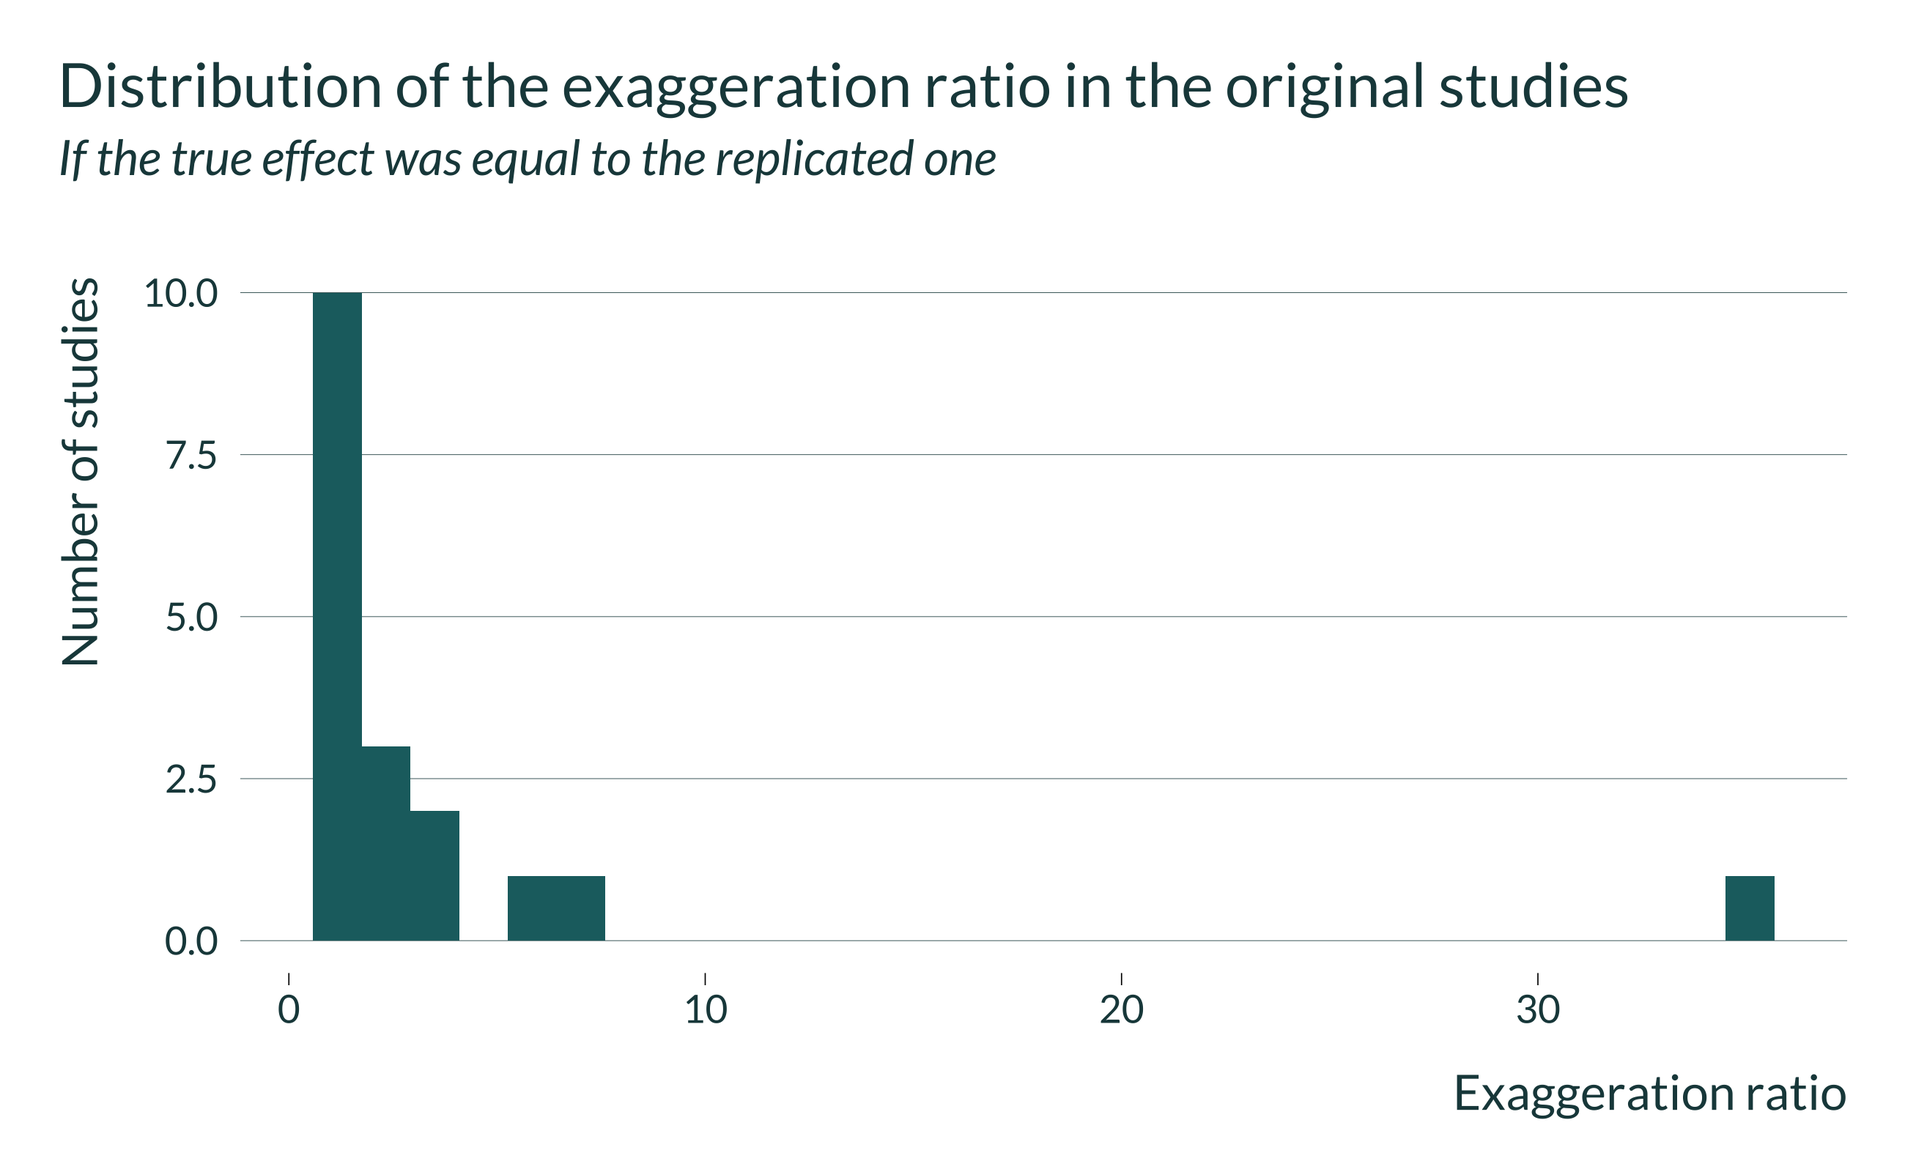
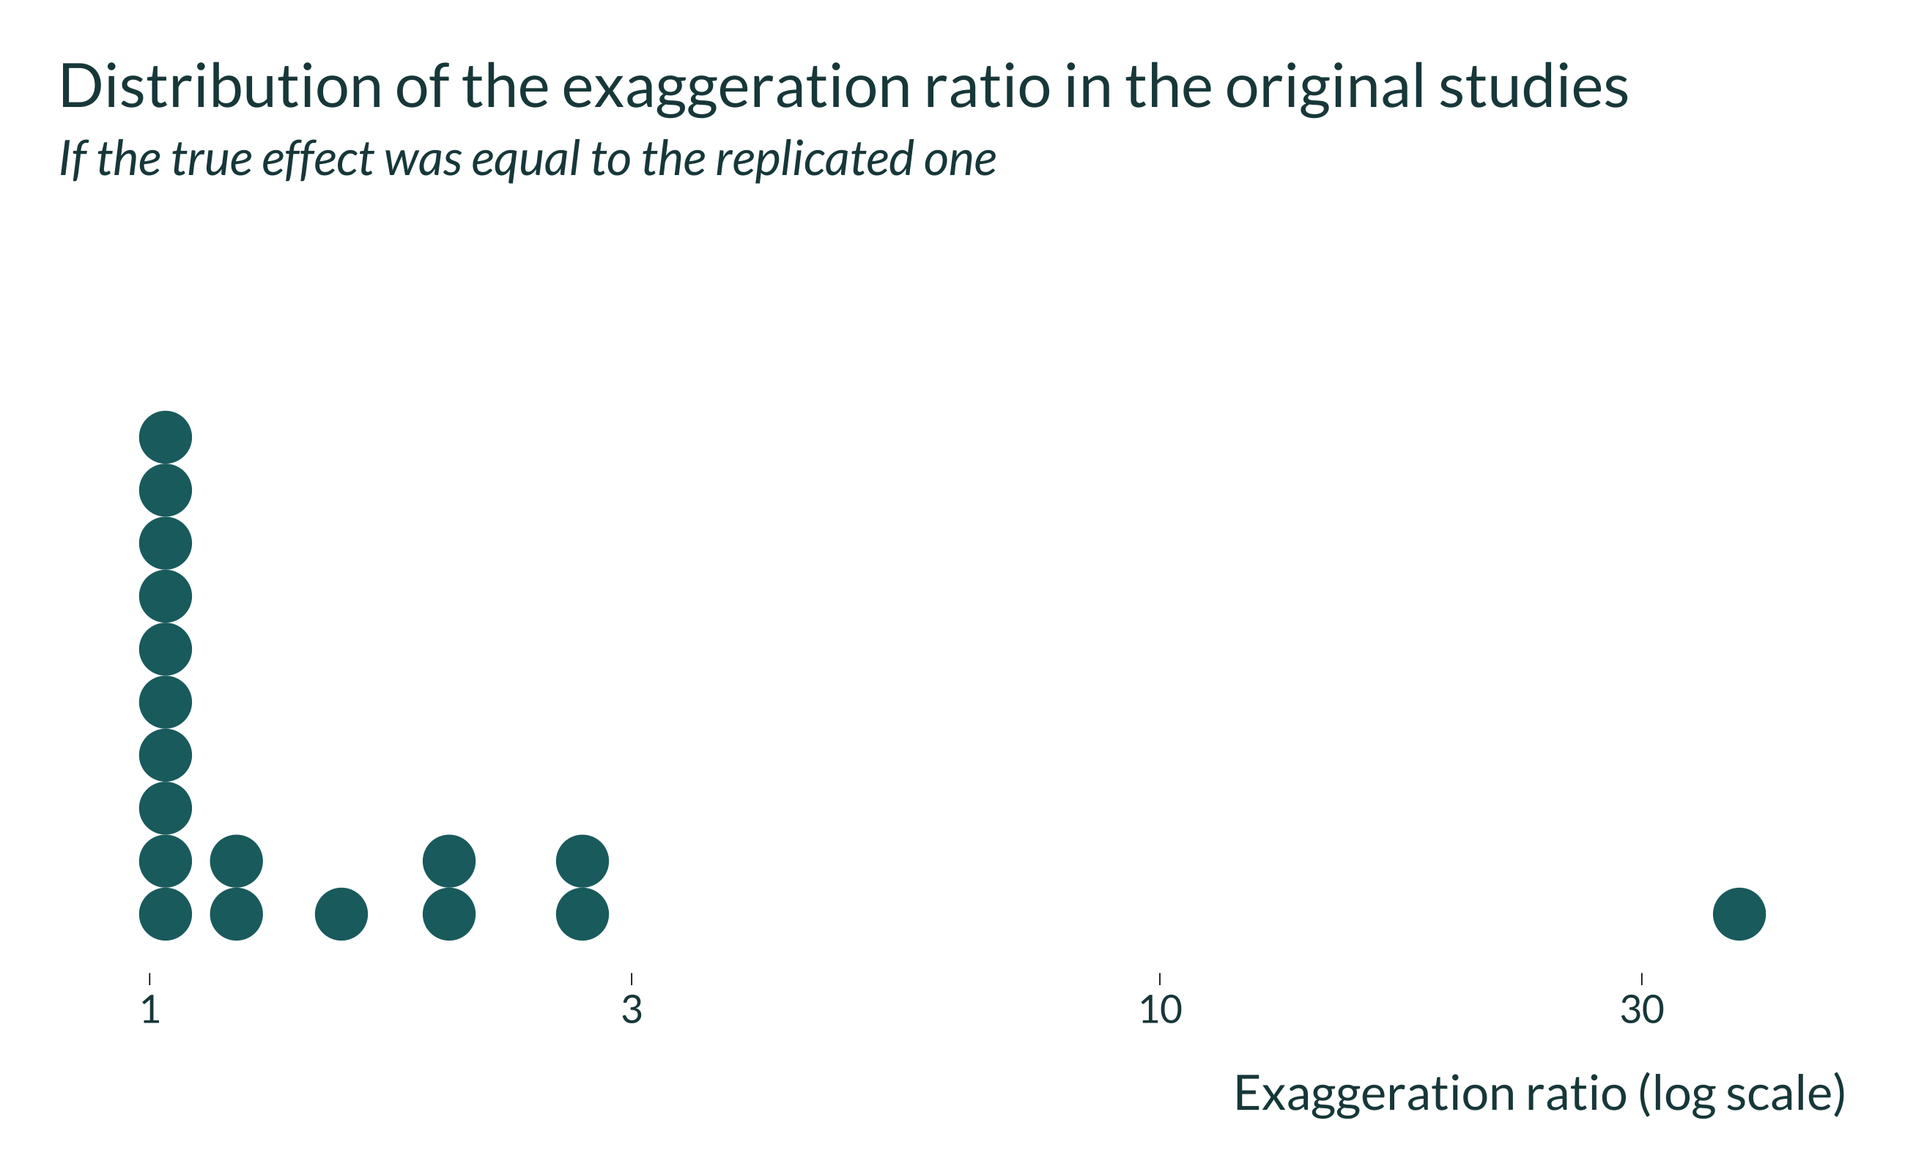
Correct values for camerer et al

diff --git a/docs/experiments.html b/docs/experiments.html
@@ -87,34 +87,34 @@ code span.wa { color: #5e5e5e; font-style: italic; } /* Warning */
 
 
   <!--radix_placeholder_meta_tags-->
-  <title>Unbiased but Inflated Causal Effects: Analyzing Experimental Studies for Intuition</title>
+  <title>Unbiased but Inflated Causal Effects: Intuition, experimental studies and replication crisis</title>
   
-  <meta property="description" itemprop="description" content="In this document, we analyze replication of experimental studies to illustrate the concept of type M error."/>
+  <meta property="description" itemprop="description" content="In this document, we analyze replications of experimental studies to illustrate the consequences of low statistical power in economics."/>
   
   
   <!--  https://schema.org/Article -->
-  <meta property="article:published" itemprop="datePublished" content="2022-01-12"/>
-  <meta property="article:created" itemprop="dateCreated" content="2022-01-12"/>
+  <meta property="article:published" itemprop="datePublished" content="2022-01-24"/>
+  <meta property="article:created" itemprop="dateCreated" content="2022-01-24"/>
   <meta name="article:author" content="Vincent Bagilet"/>
   <meta name="article:author" content="Léo Zabrocki"/>
   
   <!--  https://developers.facebook.com/docs/sharing/webmasters#markup -->
-  <meta property="og:title" content="Unbiased but Inflated Causal Effects: Analyzing Experimental Studies for Intuition"/>
+  <meta property="og:title" content="Unbiased but Inflated Causal Effects: Intuition, experimental studies and replication crisis"/>
   <meta property="og:type" content="article"/>
-  <meta property="og:description" content="In this document, we analyze replication of experimental studies to illustrate the concept of type M error."/>
+  <meta property="og:description" content="In this document, we analyze replications of experimental studies to illustrate the consequences of low statistical power in economics."/>
   <meta property="og:locale" content="en_US"/>
   <meta property="og:site_name" content="Unbiased but Inflated Causal Effects"/>
   
   <!--  https://dev.twitter.com/cards/types/summary -->
   <meta property="twitter:card" content="summary"/>
-  <meta property="twitter:title" content="Unbiased but Inflated Causal Effects: Analyzing Experimental Studies for Intuition"/>
-  <meta property="twitter:description" content="In this document, we analyze replication of experimental studies to illustrate the concept of type M error."/>
+  <meta property="twitter:title" content="Unbiased but Inflated Causal Effects: Intuition, experimental studies and replication crisis"/>
+  <meta property="twitter:description" content="In this document, we analyze replications of experimental studies to illustrate the consequences of low statistical power in economics."/>
   
   <!--/radix_placeholder_meta_tags-->
   <!--radix_placeholder_rmarkdown_metadata-->
   
   <script type="text/json" id="radix-rmarkdown-metadata">
-  {"type":"list","attributes":{"names":{"type":"character","attributes":{},"value":["title","description","author","date","output","editor_options"]}},"value":[{"type":"character","attributes":{},"value":["Analyzing Experimental Studies for Intuition"]},{"type":"character","attributes":{},"value":["In this document, we analyze replication of experimental studies to illustrate the concept of type M error."]},{"type":"list","attributes":{},"value":[{"type":"list","attributes":{"names":{"type":"character","attributes":{},"value":["name","url","affiliation","affiliation_url"]}},"value":[{"type":"character","attributes":{},"value":["Vincent Bagilet"]},{"type":"character","attributes":{},"value":["https://vincentbagilet.github.io/"]},{"type":"character","attributes":{},"value":["Columbia University"]},{"type":"character","attributes":{},"value":["https://www.columbia.edu/"]}]},{"type":"list","attributes":{"names":{"type":"character","attributes":{},"value":["name","url","affiliation","affiliation_url"]}},"value":[{"type":"character","attributes":{},"value":["Léo Zabrocki"]},{"type":"character","attributes":{},"value":["https://www.parisschoolofeconomics.eu/en/"]},{"type":"character","attributes":{},"value":["Paris School of Economics"]},{"type":"character","attributes":{},"value":["https://www.parisschoolofeconomics.eu/en/"]}]}]},{"type":"character","attributes":{},"value":["2022-01-12"]},{"type":"list","attributes":{"names":{"type":"character","attributes":{},"value":["distill::distill_article"]}},"value":[{"type":"list","attributes":{"names":{"type":"character","attributes":{},"value":["toc"]}},"value":[{"type":"logical","attributes":{},"value":[true]}]}]},{"type":"list","attributes":{"names":{"type":"character","attributes":{},"value":["chunk_output_type"]}},"value":[{"type":"character","attributes":{},"value":["console"]}]}]}
+  {"type":"list","attributes":{"names":{"type":"character","attributes":{},"value":["title","description","author","date","output","editor_options"]}},"value":[{"type":"character","attributes":{},"value":["Intuition, experimental studies and replication crisis"]},{"type":"character","attributes":{},"value":["In this document, we analyze replications of experimental studies to illustrate the consequences of low statistical power in economics."]},{"type":"list","attributes":{},"value":[{"type":"list","attributes":{"names":{"type":"character","attributes":{},"value":["name","url","affiliation","affiliation_url"]}},"value":[{"type":"character","attributes":{},"value":["Vincent Bagilet"]},{"type":"character","attributes":{},"value":["https://vincentbagilet.github.io/"]},{"type":"character","attributes":{},"value":["Columbia University"]},{"type":"character","attributes":{},"value":["https://www.columbia.edu/"]}]},{"type":"list","attributes":{"names":{"type":"character","attributes":{},"value":["name","url","affiliation","affiliation_url"]}},"value":[{"type":"character","attributes":{},"value":["Léo Zabrocki"]},{"type":"character","attributes":{},"value":["https://www.parisschoolofeconomics.eu/en/"]},{"type":"character","attributes":{},"value":["Paris School of Economics"]},{"type":"character","attributes":{},"value":["https://www.parisschoolofeconomics.eu/en/"]}]}]},{"type":"character","attributes":{},"value":["2022-01-24"]},{"type":"list","attributes":{"names":{"type":"character","attributes":{},"value":["distill::distill_article"]}},"value":[{"type":"list","attributes":{"names":{"type":"character","attributes":{},"value":["toc"]}},"value":[{"type":"logical","attributes":{},"value":[true]}]}]},{"type":"list","attributes":{"names":{"type":"character","attributes":{},"value":["chunk_output_type"]}},"value":[{"type":"character","attributes":{},"value":["console"]}]}]}
   </script>
   <!--/radix_placeholder_rmarkdown_metadata-->
   <!--radix_placeholder_navigation_in_header-->
@@ -2144,7 +2144,7 @@ code span.wa { color: #5e5e5e; font-style: italic; } /* Warning */
 <!--radix_placeholder_front_matter-->
 
 <script id="distill-front-matter" type="text/json">
-{"title":"Analyzing Experimental Studies for Intuition","description":"In this document, we analyze replication of experimental studies to illustrate the concept of type M error.","authors":[{"author":"Vincent Bagilet","authorURL":"https://vincentbagilet.github.io/","affiliation":"Columbia University","affiliationURL":"https://www.columbia.edu/","orcidID":""},{"author":"Léo Zabrocki","authorURL":"https://www.parisschoolofeconomics.eu/en/","affiliation":"Paris School of Economics","affiliationURL":"https://www.parisschoolofeconomics.eu/en/","orcidID":""}],"publishedDate":"2022-01-12T00:00:00.000+01:00","citationText":"Bagilet & Zabrocki, 2022"}
+{"title":"Intuition, experimental studies and replication crisis","description":"In this document, we analyze replications of experimental studies to illustrate the consequences of low statistical power in economics.","authors":[{"author":"Vincent Bagilet","authorURL":"https://vincentbagilet.github.io/","affiliation":"Columbia University","affiliationURL":"https://www.columbia.edu/","orcidID":""},{"author":"Léo Zabrocki","authorURL":"https://www.parisschoolofeconomics.eu/en/","affiliation":"Paris School of Economics","affiliationURL":"https://www.parisschoolofeconomics.eu/en/","orcidID":""}],"publishedDate":"2022-01-24T00:00:00.000+01:00","citationText":"Bagilet & Zabrocki, 2022"}
 </script>
 
 <!--/radix_placeholder_front_matter-->
@@ -2157,6 +2157,7 @@ code span.wa { color: #5e5e5e; font-style: italic; } /* Warning */
 <div class="nav-right">
 <a href="index.html">Home</a>
 <a href="experiments.html">Intuition</a>
+<a href="summary.html">Summary</a>
 <div class="nav-dropdown">
 <button class="nav-dropbtn">
 Simulations
@@ -2183,10 +2184,10 @@ Simulations
 <!--/radix_placeholder_site_before_body-->
 
 <div class="d-title">
-<h1>Analyzing Experimental Studies for Intuition</h1>
+<h1>Intuition, experimental studies and replication crisis</h1>
 <!--radix_placeholder_categories-->
 <!--/radix_placeholder_categories-->
-<p>In this document, we analyze replication of experimental studies to illustrate the concept of type M error.</p>
+<p>In this document, we analyze replications of experimental studies to illustrate the consequences of low statistical power in economics.</p>
 </div>
 
 <div class="d-byline">
@@ -2194,7 +2195,7 @@ Simulations
   
 ,   Léo Zabrocki <a href="https://www.parisschoolofeconomics.eu/en/" class="uri">https://www.parisschoolofeconomics.eu/en/</a> (Paris School of Economics)<a href="https://www.parisschoolofeconomics.eu/en/" class="uri">https://www.parisschoolofeconomics.eu/en/</a>
   
-<br/>2022-01-12
+<br/>2022-01-24
 </div>
 
 <div class="d-article">
@@ -2206,7 +2207,6 @@ Simulations
 <li><a href="#analyzing-all-studies">Analyzing all studies</a></li>
 <li><a href="#focus-on-one-particular-study">Focus on one particular study</a></li>
 </ul></li>
-<li><a href="#randomized-control-trials">Randomized Control Trials</a></li>
 </ul>
 </nav>
 </div>
@@ -2215,36 +2215,18 @@ body {
 text-align: justify}
 </style>
 <h2 id="laboratory-experiments">Laboratory experiments</h2>
-<p>First, we consider the paper <a href="https://www.science.org/doi/10.1126/science.aaf0918">Camerer et al (2016)</a>. The authors of this paper replicated laboratory experiments in economics. We analyze their results through the prism of statistical power.</p>
-<p>They report their replication results, alongside the original results, in table S1 Note that some p-values are strictly smaller than 0.001. As we do not have more information, we set them to 0.001. We also back out the standard errors from the p-values as they will be useful for our analysis.</p>
-<p>We compute the power of the initial analysis if the true effect is in fact equal to the replication’s. We store the results in <code>retro_camerer</code>.</p>
+<p>To illustrate the consequences of low power, we analyze the results from <a href="https://www.science.org/doi/10.1126/science.aaf0918">Camerer et al (2016)</a> through the prism of statistical power. The authors of this paper replicated laboratory experiments in economics.</p>
+<p>They report their replication results, alongside the original results, on the <a href="http://experimentaleconreplications.com/scripts.html">project website</a>, we only need to run their Stata script <code>create_studydetails.do</code> to recover all the infomation.</p>
+<p>We then compute the power of the initial analysis if the true effect is in fact equal to the replication’s.</p>
 <div class="layout-chunk" data-layout="l-body">
-<div class="sourceCode">
-<pre class="sourceCode r"><code class="sourceCode r"><span class='va'>rep_camerer</span> <span class='op'>&lt;-</span> <span class='fu'><a href='https://readxl.tidyverse.org/reference/read_excel.html'>read_excel</a></span><span class='op'>(</span><span class='fu'><a href='https://here.r-lib.org//reference/here.html'>here</a></span><span class='op'>(</span><span class='st'>"Misc"</span>, <span class='st'>"rep_camerer.xlsx"</span><span class='op'>)</span><span class='op'>)</span> <span class='op'>%&gt;%</span> 
-  <span class='fu'>mutate</span><span class='op'>(</span>
-    se_original <span class='op'>=</span> <span class='va'>effect_original</span><span class='op'>/</span><span class='fu'><a href='https://rdrr.io/r/stats/Normal.html'>qnorm</a></span><span class='op'>(</span><span class='fl'>1</span> <span class='op'>-</span> <span class='va'>pvalue_original</span><span class='op'>)</span>, <span class='co'>#incorrect</span>
-    se_rep <span class='op'>=</span> <span class='va'>effect_rep</span><span class='op'>/</span><span class='fu'><a href='https://rdrr.io/r/stats/Normal.html'>qnorm</a></span><span class='op'>(</span><span class='fl'>1</span> <span class='op'>-</span> <span class='va'>pvalue_rep</span><span class='op'>)</span> <span class='co'>#incorrect</span>
-  <span class='op'>)</span> 
 
-<span class='va'>retro_camerer</span> <span class='op'>&lt;-</span> <span class='va'>rep_camerer</span> <span class='op'>%&gt;%</span> 
-  <span class='fu'>mutate</span><span class='op'>(</span>
-    se_original <span class='op'>=</span> <span class='va'>effect_original</span><span class='op'>/</span><span class='fu'><a href='https://rdrr.io/r/stats/Normal.html'>qnorm</a></span><span class='op'>(</span><span class='fl'>1</span> <span class='op'>-</span> <span class='va'>pvalue_original</span><span class='op'>)</span>, <span class='co'>#incorrect</span>
-    se_rep <span class='op'>=</span> <span class='va'>effect_rep</span><span class='op'>/</span><span class='fu'><a href='https://rdrr.io/r/stats/Normal.html'>qnorm</a></span><span class='op'>(</span><span class='fl'>1</span> <span class='op'>-</span> <span class='va'>pvalue_rep</span><span class='op'>)</span> <span class='co'>#incorrect</span>
-  <span class='op'>)</span> <span class='op'>%&gt;%</span> 
-  <span class='fu'>select</span><span class='op'>(</span>A <span class='op'>=</span> <span class='va'>effect_rep</span>, s <span class='op'>=</span> <span class='va'>se_original</span><span class='op'>)</span> <span class='op'>%&gt;%</span> 
-  <span class='co'># select(A, s) %&gt;% </span>
-  <span class='fu'>pmap_dfr</span><span class='op'>(</span><span class='va'>retrodesign</span><span class='op'>)</span> <span class='op'>%&gt;%</span> 
-  <span class='fu'><a href='https://rdrr.io/r/base/cbind.html'>cbind</a></span><span class='op'>(</span><span class='va'>rep_camerer</span><span class='op'>)</span> <span class='op'>%&gt;%</span> 
-  <span class='fu'>as_tibble</span><span class='op'>(</span><span class='op'>)</span>
-</code></pre>
-</div>
 </div>
 <h3 id="analyzing-all-studies">Analyzing all studies</h3>
 <p>We quickly plot and analyze the results obtained, <em>ie</em> the distribution of the exaggeration ratio and power.</p>
 <div class="layout-chunk" data-layout="l-body">
 <p><img src="images/camerer_retro_analysis-1.png" width="85%" style="display: block; margin: auto;" /><img src="images/camerer_retro_analysis-2.png" width="85%" style="display: block; margin: auto;" /></p>
 </div>
-<p>The median power would be 0.38%. The median replicated estimates is equal to 0.62 times the original estimate.</p>
+<p>The median power would be 0.93%. The median replicated estimates is equal to 0.96 times the original estimate.</p>
 <p>We then compute the number and proportion of original studies that were statistically significant.</p>
 <div class="layout-chunk" data-layout="l-body">
 <table>
@@ -2306,20 +2288,20 @@ text-align: justify}
 <tbody>
 <tr class="odd">
 <td style="text-align: left;">No</td>
-<td style="text-align: right;">14</td>
-<td style="text-align: right;">0.78</td>
+<td style="text-align: right;">8</td>
+<td style="text-align: right;">0.44</td>
 </tr>
 <tr class="even">
 <td style="text-align: left;">Yes</td>
-<td style="text-align: right;">4</td>
-<td style="text-align: right;">0.22</td>
+<td style="text-align: right;">10</td>
+<td style="text-align: right;">0.56</td>
 </tr>
 </tbody>
 </table>
 </div>
 <h3 id="focus-on-one-particular-study">Focus on one particular study</h3>
 <p>Here, we focus on one particular study in order to illustrate in more details the problem at play. We want to simulate what could have yielded replication of the initial study if the true effect was equal to the replication estimate.</p>
-<p>We select one of the studies and draw the graph of interest.</p>
+<p>We select one of the studies, Abeler et al. (2011), that we initially selected at random and draw the graph of interest. The way we calculated the standard error is not perfectly accurate so we use the information available in the <a href="http://experimentaleconreplications.com/replicationreports.html">replication report</a>.</p>
 <div class="layout-chunk" data-layout="l-body">
 <p><img src="images/graph_retrodesign_camerer-1.png" width="1200" style="display: block; margin: auto;" /></p>
 </div>
@@ -2334,10 +2316,10 @@ text-align: justify}
 <li>This estimate is non significant. In this instance, we would not have been able to reject the null of no effect</li>
 <li>Now, if we replicate this study 500 times, running 500 lab experiments, in some cases we would get statisitcally significant estimates (the beige dots) and in some others non statistically significant ones (the green dots)</li>
 <li>If we would have been a bit more lucky, we could have gotten a sample of individuals that would have yielded one of the beige estimates</li>
-<li>Now, we notice that, on average, statistically significant estimates overestimate the true effect by a factor 1.7 (average of 0.53 while the true effect is 0.31). Gelman and Carlin call this inflation factor type M error.</li>
+<li>Now, we notice that, on average, statistically significant estimates overestimate the true effect by a factor 2.4783975 (average of 0.1959678 while the true effect is 0.0790704). Gelman and Carlin call this inflation factor type M error.</li>
 <li>In this case, the power is basically the proportion of statistically significant estimates</li>
 <li>If the study had more power, the sd would be smaller and most estimates would be statistically significative (because there is indeed a non null effect)</li>
-<li>But since the power is low (33%), if by chance the sample of individuals we get yields a statistically significant estimate, this estimate will overestimate the true effect</li>
+<li>But since the power is low, if by chance the sample of individuals we get yields a statistically significant estimate, this estimate will overestimate the true effect</li>
 </ul>
 <!-- ```{r} -->
 <!-- data_graph_distrib %>%  -->
@@ -2347,19 +2329,15 @@ text-align: justify}
 <!--     mean = mean(value) -->
 <!--   ) -->
 <!-- ``` -->
-<h2 id="randomized-control-trials">Randomized Control Trials</h2>
-<p>We want to look at replications of RCTs in Development Economics. To do so, we use <a href="https://www.aeaweb.org/articles?id=10.1257/aer.p20171120">the list of replication papers put together by Sandip Sukhtankar</a>.</p>
-<p>We gather the list of RCTs that have been replicated in Development Economics.</p>
-<div class="layout-chunk" data-layout="l-body">
-<div class="sourceCode">
-<pre class="sourceCode r"><code class="sourceCode r"><span class='va'>rep_dvpt</span> <span class='op'>&lt;-</span> <span class='fu'><a href='https://haven.tidyverse.org/reference/read_dta.html'>read_dta</a></span><span class='op'>(</span><span class='fu'><a href='https://here.r-lib.org//reference/here.html'>here</a></span><span class='op'>(</span><span class='st'>"Misc"</span>, <span class='st'>"replication_data_final.dta"</span><span class='op'>)</span><span class='op'>)</span>
-
-<span class='co'># rep_dvpt %&gt;% </span>
-<span class='co'>#   filter((RCT == "Yes") &amp; (Replicated == "Replicated")) %&gt;% </span>
-<span class='co'>#   .$ReplicationPaperTitle</span>
-</code></pre>
-</div>
-</div>
+<!-- ## Randomized Control Trials -->
+<!-- We want to look at replications of RCTs in Development Economics. To do so, we use [the list of replication papers put together by Sandip Sukhtankar](https://www.aeaweb.org/articles?id=10.1257/aer.p20171120).  -->
+<!-- We gather the list of RCTs that have been replicated in Development Economics. -->
+<!-- ```{r rep_dvpt} -->
+<!-- rep_dvpt <- read_dta(here("Misc", "replication_data_final.dta")) -->
+<!-- # rep_dvpt %>%  -->
+<!-- #   filter((RCT == "Yes") & (Replicated == "Replicated")) %>%  -->
+<!-- #   .$ReplicationPaperTitle -->
+<!-- ``` -->
 <div class="sourceCode" id="cb1"><pre class="sourceCode r distill-force-highlighting-css"><code class="sourceCode r"></code></pre></div>
 <!--radix_placeholder_article_footer-->
 <!--/radix_placeholder_article_footer-->
